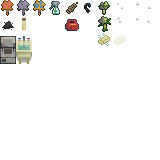
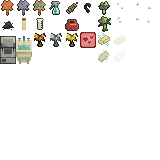
some updates

diff --git a/Mods/inflorescence.py b/Mods/inflorescence.py
@@ -176,7 +176,7 @@ Gold = Flower_Currency(
         "DisplayName": i18n("GoldBouquet_name"),
         "Description": i18n("GoldBouquet_desc"),
         "Price": 500,
-        "SpriteIndex": 2,
+        "SpriteIndex": 24,
         "ContextTags": [
             "color_gold"
         ]
@@ -190,7 +190,7 @@ Silver = Flower_Currency(
         "DisplayName": i18n("SilverBouquet_name"),
         "Description": i18n("SilverBouquet_desc"),
         "Price": 250,
-        "SpriteIndex": 1,
+        "SpriteIndex": 23,
         "ContextTags": [
             "color_iron"
         ]
@@ -204,7 +204,7 @@ Bronze = Flower_Currency(
         "DisplayName": i18n("BronzeBouquet_name"),
         "Description": i18n("BronzeBouquet_desc"),
         "Price": 100,
-        "SpriteIndex": 0,
+        "SpriteIndex": 22,
         "ContextTags": [
             "color_orange"
         ]
@@ -213,6 +213,7 @@ Bronze = Flower_Currency(
 
 ### ITEMS ###
 
+## POWER GRO ##
 ObjectCurry(
     entry_id = "_PowerGro",
     entry = {
@@ -231,6 +232,7 @@ ObjectCurry(
     }
 )
 
+## SCORE RADIO ##
 ObjectCurry(
     entry_id = "_ScoreRadio",
     entry = {
@@ -249,6 +251,7 @@ ObjectCurry(
     }
 )
 
+## INFORMANT EARPIECE ##
 ObjectCurry(
     entry_id = "_InformantEarpiece",
     entry = {
@@ -267,6 +270,7 @@ ObjectCurry(
     }
 )
 
+## ASH ##
 ObjectCurry(
     entry_id = "_Ash",
     entry = {
@@ -284,6 +288,7 @@ ObjectCurry(
     }
 )
 
+## BOUQUET ##
 ObjectCurry(
     entry_id = "_Bouquet",
     entry = {
@@ -301,6 +306,7 @@ ObjectCurry(
     }
 )
 
+## LYE ##
 ObjectCurry(
     entry_id = "_Lye",
     entry = {
@@ -311,13 +317,14 @@ ObjectCurry(
         "Category": -26,
         "Price": 5,
         "Texture": "{{ModID}}/Objects",
-        "SpriteIndex": 11,
+        "SpriteIndex": 12,
         "ContextTags": [
             "color_sand"
         ]
     }
 )
 
+## SOAP ##
 ObjectCurry(
     entry_id = "_Soap",
     entry = {
@@ -327,11 +334,19 @@ ObjectCurry(
         "Type": "Basic",
         "Category": -26,
         "Price": 100,
+        #"Edibility": 1,
+        #"IsDrink": False,
         "Texture": "{{ModID}}/Objects",
-        "SpriteIndex": 26,
+        "SpriteIndex": 36,
         "ContextTags": [
             "color_sand"
-        ]
+        ],
+        #"Buffs": [
+        #    {
+        #        "Id": "Food",
+        #        "Duration": 520
+        #    }
+        #]
     }
 )
 
@@ -339,7 +354,7 @@ ObjectCurry(
 
 RecipeCurry(
     entry_id = "_AshFurnace",
-    entry = "388 25 390 100 335 15 337 1/Home/{{ModID}}_AshFurnace/true/"
+    entry = "388 25 390 100 335 15/Home/{{ModID}}_AshFurnace/true/"
 )
 
 RecipeCurry(
@@ -349,7 +364,7 @@ RecipeCurry(
 
 RecipeCurry(
     entry_id = "_SoapStation",
-    entry = "335 10 343 10 370 2/Home/{{ModID}}_SoapStation/true/"
+    entry = "335 10 390 25 370 2/Home/{{ModID}}_SoapStation/true/"
 )
 
 ### BIG CRAFTABLES ###
@@ -644,7 +659,7 @@ ShopsCurry(
                 "Id": "{{ModID}}_PowerGro",
                 "ItemId": "(O){{ModID}}_PowerGro",
                 "TradeItemId": Gold.entry_id,
-                "TradeItemAmount": 3,
+                "TradeItemAmount": 1,
                 "AvailableStock": 5
             },
 
@@ -654,7 +669,7 @@ ShopsCurry(
                 "Id": "{{ModID}}_AshFurnace",
                 "ItemId": "(BC){{ModID}}_AshFurnace",
                 "TradeItemId": Gold.entry_id,
-                "TradeItemAmount": 10,
+                "TradeItemAmount": 5,
                 "AvailableStock": 1,
                 "IsRecipe": True
             },
